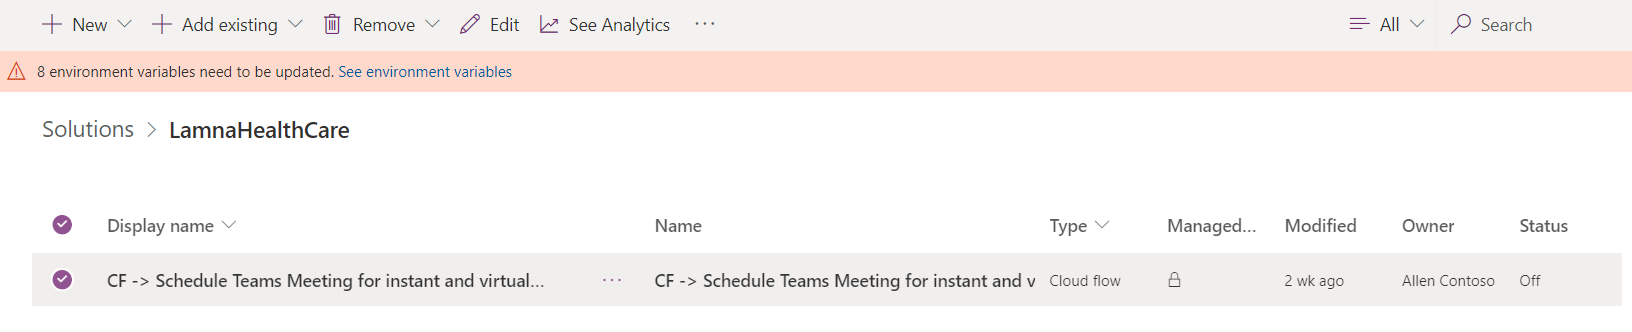
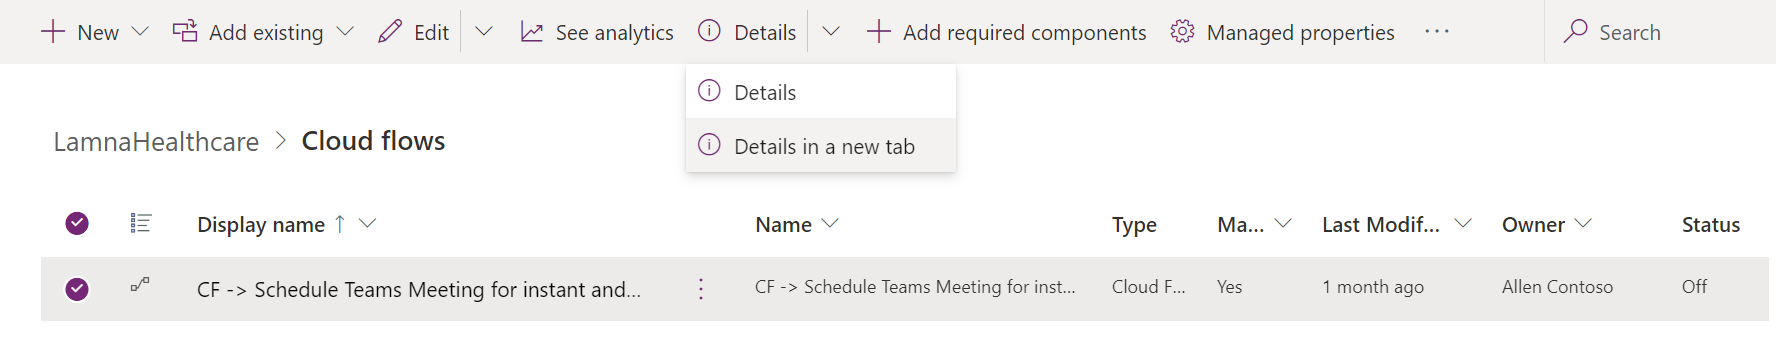
Update virtual visits

diff --git a/learn-bizapps-pr/industry-solutions/virtual-visits/includes/2-configure-app.md b/learn-bizapps-pr/industry-solutions/virtual-visits/includes/2-configure-app.md
@@ -305,12 +305,17 @@ In this task, we'll activate the Flows and Connection References that deployed a
     > [!div class="mx-imgBorder"]
     > [![Screenshot of Power Apps Solutions view showing the New solution button.](../media/solutions.png)](../media/solutions.png#lightbox)
 
-1. Name the solution "LamnaHealthcare", choose the **CDS** **Default Publisher** and select **Create**.
+1. Name the solution "LamnaHealthcare", choose the **CDS Default Publisher** and select **Create**.
 
     > [!div class="mx-imgBorder"]
     > [![Screenshot of the New solution dialog filled in.](../media/new-solution.png)](../media/new-solution.png#lightbox)
 
-1. Select **+ Add existing** and select **Cloud flow**.
+1. Select the new **LamnaHealthcare** solution and click **Edit**.
+
+	> [!div class="mx-imgBorder"]
+	> [![Screenshot of the solution selected with edit button.](../media/solution-edit.png)](../media/solution-edit.png#lightbox)
+
+1. Select **+ Add existing** and select **Cloud flow** under Automation.
 
     > [!div class="mx-imgBorder"]
     > [![Screenshot of Power Apps with the Add existing menu expanded and Cloud flow selected.](../media/cloud.png)](../media/cloud.png#lightbox)
@@ -320,7 +325,7 @@ In this task, we'll activate the Flows and Connection References that deployed a
     > [!div class="mx-imgBorder"]
     > [![Screenshot of Add existing cloud flows dialog with C F Schedule Teams Meeting selected.](../media/existing.png)](../media/existing.png#lightbox)
 
-1. **Select** and open the Cloud flow.
+1. Select the Cloud flow. Navigate to Details in a new tab on the command bar to open in Power Automate.
 
     > [!div class="mx-imgBorder"]
     > [![Screenshot of Solutions > LamnaHealthCare with C F Schedule Teams Meeting added.](../media/flow.png)](../media/flow.png#lightbox)
@@ -355,7 +360,7 @@ In this task, we'll activate the Flows and Connection References that deployed a
    > [!div class="mx-imgBorder"]
    > [![Screenshot of the completed flow in Power Automate.](../media/save.png)](../media/save.png#lightbox)
 
-1. Select the **Back arrow** to return to the flow's main page.
+1. Select the **Back arrow** to return to the flow's main page. Ensure it has completed saving.
 
    > [!div class="mx-imgBorder"]
    > [![Screenshot of the flow's main page in Power Automate.](../media/flow-main.png)](../media/flow-main.png#lightbox)

diff --git a/learn-bizapps-pr/industry-solutions/virtual-visits/includes/1-introduction.md b/learn-bizapps-pr/industry-solutions/virtual-visits/includes/1-introduction.md
@@ -11,6 +11,9 @@ Virtual Care focuses on the **Enhance patient engagement** priority scenario by 
 
 This lab will focus on the healthcare story of Reed Flores.
 
+> [!div class="mx-imgBorder"]
+> [![Diagram of healthcare data model basics with virtual visits highlighted.](../media/virtual-visits.png)](../media/virtual-visits.png#lightbox)
+
 After coming home from hiking, Reed noticed he had a new rash on his right arm and leg. He decides to schedule a virtual appointment to get a diagnosis.
 
 In this lab, you'll first play the role of a Lamna Healthcare system administrator. You'll configure the Microsoft Cloud for Healthcare Virtual Clinic application to be used for virtual appointments. Then you'll play the role of Reed by scheduling a virtual appointment with his practitioner. Finally, you'll join the virtual appointment from the view of a practitioner to observe the complete end-to-end experience.
